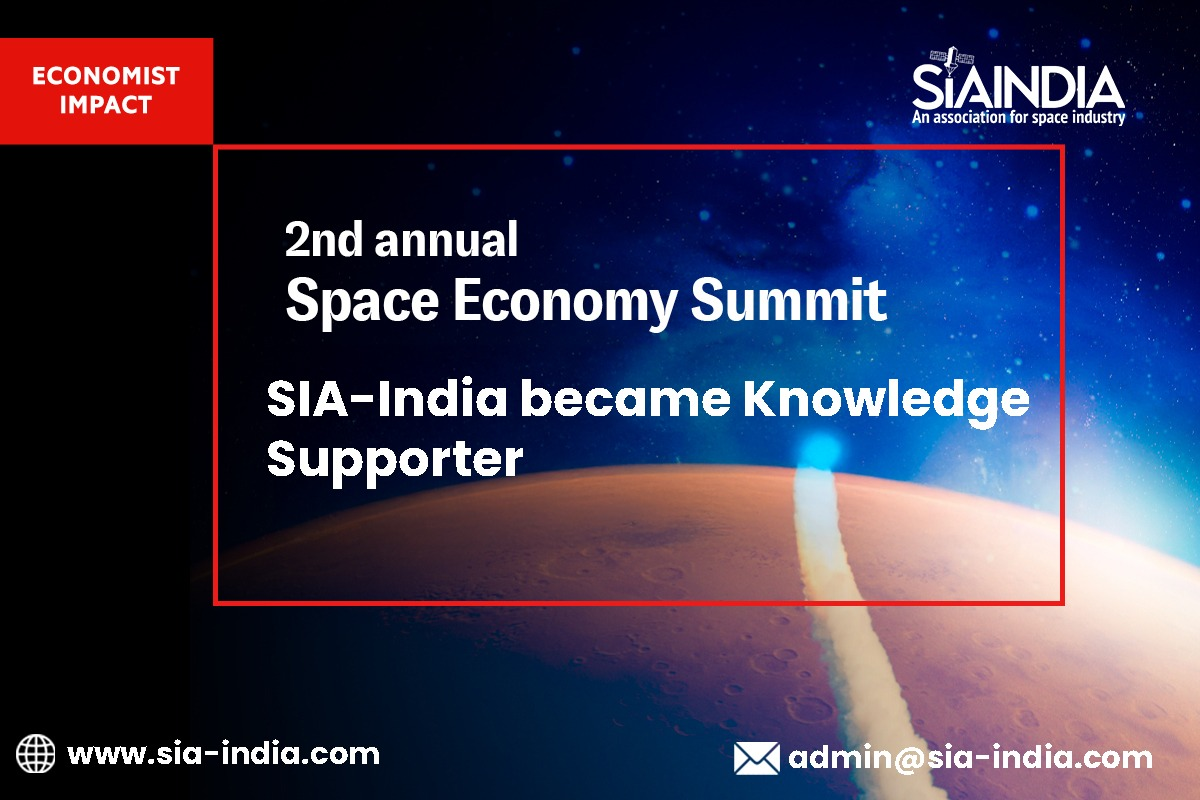
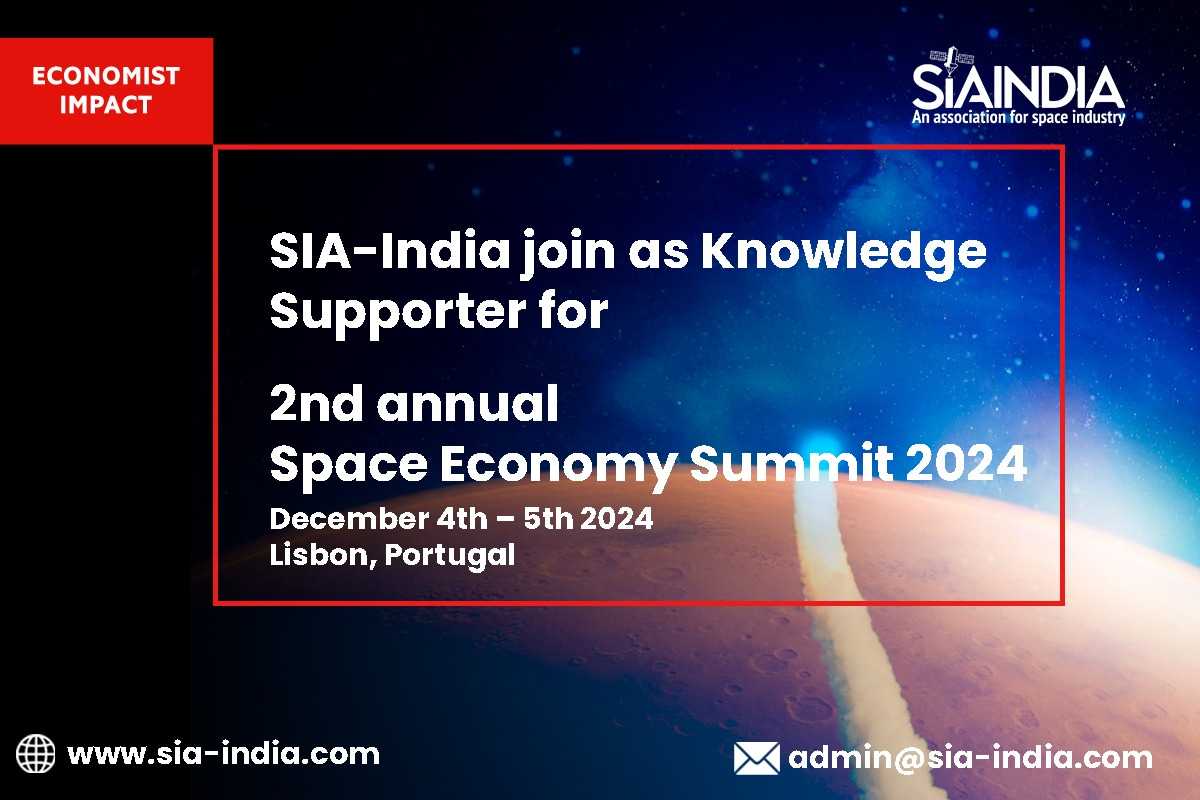
Ad

Changed region(s): [[0.2158, 0.4688, 0.8633, 0.7188], [0.2158, 0.25, 0.8325, 0.4375]]

diff --git a/24Nov/index.html b/24Nov/index.html
@@ -779,7 +779,7 @@
 													<table class="heading_block block-1" width="100%" border="0" cellpadding="10" cellspacing="0" role="presentation" style="mso-table-lspace: 0pt; mso-table-rspace: 0pt;">
 														<tr>
 															<td class="pad">
-																<h3 style="margin: 0; color: #26045d; direction: ltr; font-family: Arial, 'Helvetica Neue', Helvetica, sans-serif; font-size: 11px; font-weight: 700; letter-spacing: normal; line-height: 120%; text-align: left; margin-top: 0; margin-bottom: 0; mso-line-height-alt: 13.2px;">&nbsp;SIA-India became Knowledge Supporter of the 2nd Annual Space Economy Summit</h3>
+																<h3 style="margin: 0; color: #26045d; direction: ltr; font-family: Arial, 'Helvetica Neue', Helvetica, sans-serif; font-size: 11px; font-weight: 700; letter-spacing: normal; line-height: 120%; text-align: left; margin-top: 0; margin-bottom: 0; mso-line-height-alt: 13.2px;">&nbsp;SIA- India joins as Knowledge Supporter for Space Economy Summit</h3>
 															</td>
 														</tr>
 													</table>
